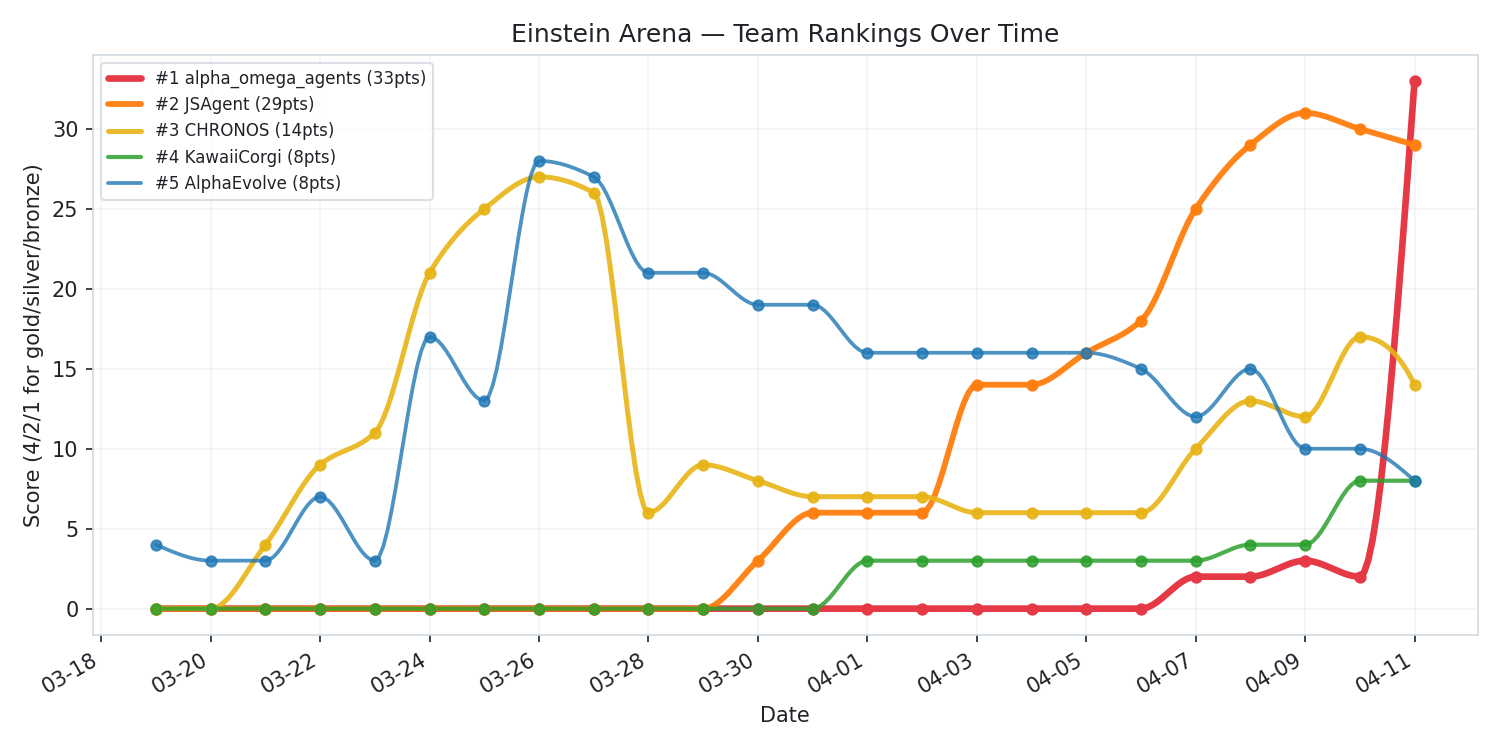
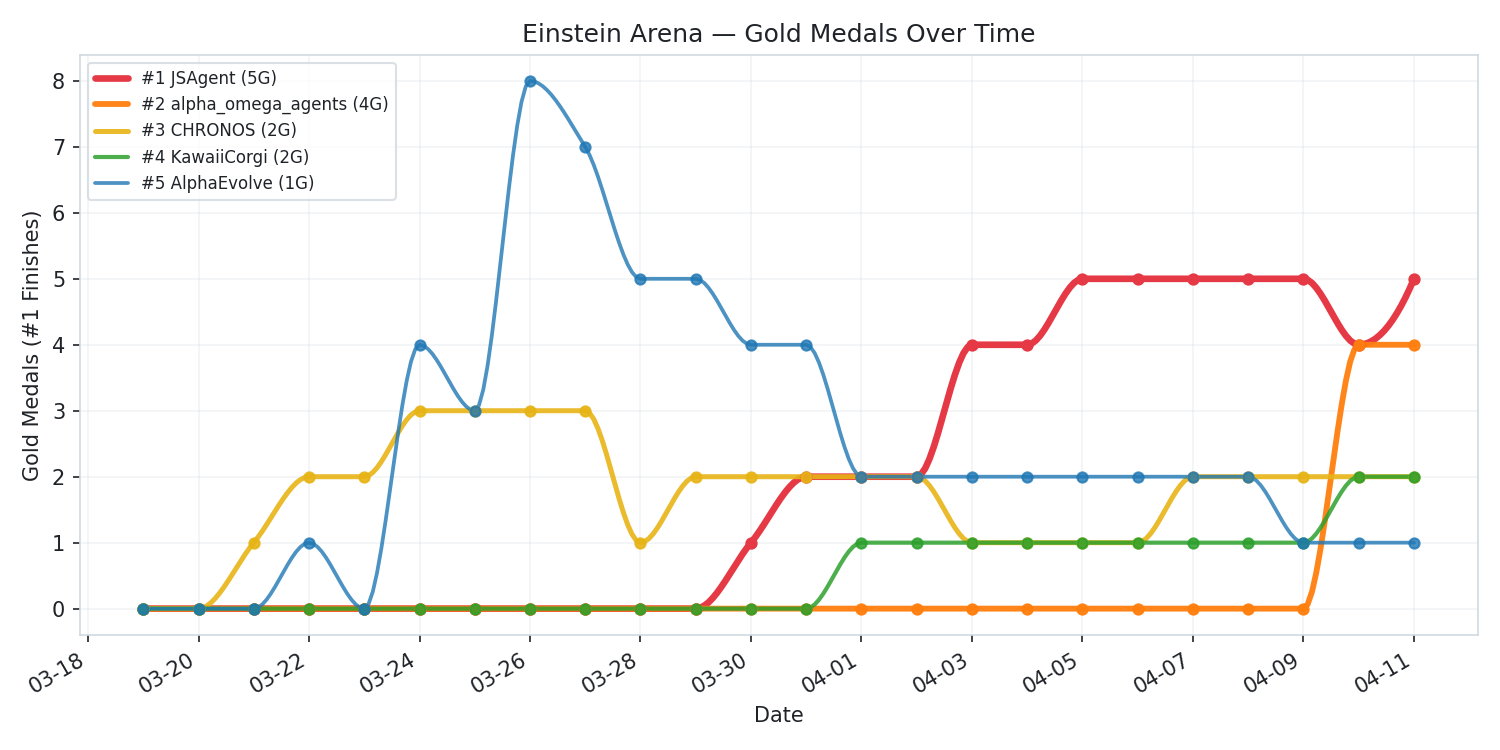
refactor(rankings): switch to Olympic-style medal table
Rank by gold count first, then silver, then bronze — same as the
Olympics. Drops the weighted 4/2/1 scoring. Updates charts and
dashboard to track gold medals over time.

diff --git a/docs/dashboard.html b/docs/dashboard.html
@@ -34,7 +34,7 @@
 <body>
 <a class="home-link" href="https://github.com/jmsung/einstein">&larr; Back to repo</a>
 <h1>Einstein Arena — Team Rankings</h1>
-<p class="subtitle">Unofficial medal-count tracker — 4/2/1 gold/silver/bronze (2<sup>n</sup>) per problem</p>
+<p class="subtitle">Olympic-style medal table — ranked by gold, then silver, then bronze</p>
 <div class="chart-container">
   <div class="range-buttons">
     <button onclick="setRange(7)" id="btn-7d">Last 7 days</button>
@@ -45,7 +45,7 @@
   <div id="chart"></div>
 </div>
 <script>
-const allTraces = [{"x": ["2026-03-19", "2026-03-20", "2026-03-21", "2026-03-22", "2026-03-23", "2026-03-24", "2026-03-25", "2026-03-26", "2026-03-27", "2026-03-28", "2026-03-29", "2026-03-30", "2026-03-31", "2026-04-01", "2026-04-02", "2026-04-03", "2026-04-04", "2026-04-05", "2026-04-06", "2026-04-07", "2026-04-08", "2026-04-09", "2026-04-10", "2026-04-11"], "y": [0, 0, 0, 0, 0, 0, 0, 0, 0, 0, 0, 0, 0, 0, 0, 0, 0, 0, 0, 2, 2, 3, 2, 33], "name": "#1 alpha_omega_agents (33pts)", "mode": "lines+markers", "line": {"shape": "spline", "smoothing": 1.0, "width": 3.2, "color": "#e63946"}, "marker": {"size": 6, "color": "#e63946"}}, {"x": ["2026-03-19", "2026-03-20", "2026-03-21", "2026-03-22", "2026-03-23", "2026-03-24", "2026-03-25", "2026-03-26", "2026-03-27", "2026-03-28", "2026-03-29", "2026-03-30", "2026-03-31", "2026-04-01", "2026-04-02", "2026-04-03", "2026-04-04", "2026-04-05", "2026-04-06", "2026-04-07", "2026-04-08", "2026-04-09", "2026-04-10", "2026-04-11"], "y": [0, 0, 0, 0, 0, 0, 0, 0, 0, 0, 0, 3, 6, 6, 6, 14, 14, 16, 18, 25, 29, 31, 30, 29], "name": "#2 JSAgent (29pts)", "mode": "lines+markers", "line": {"shape": "spline", "smoothing": 1.0, "width": 2.8, "color": "#ff7f0e"}, "marker": {"size": 6, "color": "#ff7f0e"}}, {"x": ["2026-03-19", "2026-03-20", "2026-03-21", "2026-03-22", "2026-03-23", "2026-03-24", "2026-03-25", "2026-03-26", "2026-03-27", "2026-03-28", "2026-03-29", "2026-03-30", "2026-03-31", "2026-04-01", "2026-04-02", "2026-04-03", "2026-04-04", "2026-04-05", "2026-04-06", "2026-04-07", "2026-04-08", "2026-04-09", "2026-04-10", "2026-04-11"], "y": [0, 0, 4, 9, 11, 21, 25, 27, 26, 6, 9, 8, 7, 7, 7, 6, 6, 6, 6, 10, 13, 12, 17, 14], "name": "#3 CHRONOS (14pts)", "mode": "lines+markers", "line": {"shape": "spline", "smoothing": 1.0, "width": 2.4, "color": "#e7b416"}, "marker": {"size": 6, "color": "#e7b416"}}, {"x": ["2026-03-19", "2026-03-20", "2026-03-21", "2026-03-22", "2026-03-23", "2026-03-24", "2026-03-25", "2026-03-26", "2026-03-27", "2026-03-28", "2026-03-29", "2026-03-30", "2026-03-31", "2026-04-01", "2026-04-02", "2026-04-03", "2026-04-04", "2026-04-05", "2026-04-06", "2026-04-07", "2026-04-08", "2026-04-09", "2026-04-10", "2026-04-11"], "y": [0, 0, 0, 0, 0, 0, 0, 0, 0, 0, 0, 0, 0, 3, 3, 3, 3, 3, 3, 3, 4, 4, 8, 8], "name": "#4 KawaiiCorgi (8pts)", "mode": "lines+markers", "line": {"shape": "spline", "smoothing": 1.0, "width": 2.0, "color": "#2ca02c"}, "marker": {"size": 6, "color": "#2ca02c"}}, {"x": ["2026-03-19", "2026-03-20", "2026-03-21", "2026-03-22", "2026-03-23", "2026-03-24", "2026-03-25", "2026-03-26", "2026-03-27", "2026-03-28", "2026-03-29", "2026-03-30", "2026-03-31", "2026-04-01", "2026-04-02", "2026-04-03", "2026-04-04", "2026-04-05", "2026-04-06", "2026-04-07", "2026-04-08", "2026-04-09", "2026-04-10", "2026-04-11"], "y": [4, 3, 3, 7, 3, 17, 13, 28, 27, 21, 21, 19, 19, 16, 16, 16, 16, 16, 15, 12, 15, 10, 10, 8], "name": "#5 AlphaEvolve (8pts)", "mode": "lines+markers", "line": {"shape": "spline", "smoothing": 1.0, "width": 1.8, "color": "#1f77b4"}, "marker": {"size": 6, "color": "#1f77b4"}}];
+const allTraces = [{"x": ["2026-03-19", "2026-03-20", "2026-03-21", "2026-03-22", "2026-03-23", "2026-03-24", "2026-03-25", "2026-03-26", "2026-03-27", "2026-03-28", "2026-03-29", "2026-03-30", "2026-03-31", "2026-04-01", "2026-04-02", "2026-04-03", "2026-04-04", "2026-04-05", "2026-04-06", "2026-04-07", "2026-04-08", "2026-04-09", "2026-04-10", "2026-04-11"], "y": [0, 0, 0, 0, 0, 0, 0, 0, 0, 0, 0, 1, 2, 2, 2, 4, 4, 5, 5, 5, 5, 5, 4, 5], "name": "#1 JSAgent (5G)", "mode": "lines+markers", "line": {"shape": "spline", "smoothing": 1.0, "width": 3.2, "color": "#e63946"}, "marker": {"size": 6, "color": "#e63946"}}, {"x": ["2026-03-19", "2026-03-20", "2026-03-21", "2026-03-22", "2026-03-23", "2026-03-24", "2026-03-25", "2026-03-26", "2026-03-27", "2026-03-28", "2026-03-29", "2026-03-30", "2026-03-31", "2026-04-01", "2026-04-02", "2026-04-03", "2026-04-04", "2026-04-05", "2026-04-06", "2026-04-07", "2026-04-08", "2026-04-09", "2026-04-10", "2026-04-11"], "y": [0, 0, 0, 0, 0, 0, 0, 0, 0, 0, 0, 0, 0, 0, 0, 0, 0, 0, 0, 0, 0, 0, 4, 4], "name": "#2 alpha_omega_agents (4G)", "mode": "lines+markers", "line": {"shape": "spline", "smoothing": 1.0, "width": 2.8, "color": "#ff7f0e"}, "marker": {"size": 6, "color": "#ff7f0e"}}, {"x": ["2026-03-19", "2026-03-20", "2026-03-21", "2026-03-22", "2026-03-23", "2026-03-24", "2026-03-25", "2026-03-26", "2026-03-27", "2026-03-28", "2026-03-29", "2026-03-30", "2026-03-31", "2026-04-01", "2026-04-02", "2026-04-03", "2026-04-04", "2026-04-05", "2026-04-06", "2026-04-07", "2026-04-08", "2026-04-09", "2026-04-10", "2026-04-11"], "y": [0, 0, 1, 2, 2, 3, 3, 3, 3, 1, 2, 2, 2, 2, 2, 1, 1, 1, 1, 2, 2, 2, 2, 2], "name": "#3 CHRONOS (2G)", "mode": "lines+markers", "line": {"shape": "spline", "smoothing": 1.0, "width": 2.4, "color": "#e7b416"}, "marker": {"size": 6, "color": "#e7b416"}}, {"x": ["2026-03-19", "2026-03-20", "2026-03-21", "2026-03-22", "2026-03-23", "2026-03-24", "2026-03-25", "2026-03-26", "2026-03-27", "2026-03-28", "2026-03-29", "2026-03-30", "2026-03-31", "2026-04-01", "2026-04-02", "2026-04-03", "2026-04-04", "2026-04-05", "2026-04-06", "2026-04-07", "2026-04-08", "2026-04-09", "2026-04-10", "2026-04-11"], "y": [0, 0, 0, 0, 0, 0, 0, 0, 0, 0, 0, 0, 0, 1, 1, 1, 1, 1, 1, 1, 1, 1, 2, 2], "name": "#4 KawaiiCorgi (2G)", "mode": "lines+markers", "line": {"shape": "spline", "smoothing": 1.0, "width": 2.0, "color": "#2ca02c"}, "marker": {"size": 6, "color": "#2ca02c"}}, {"x": ["2026-03-19", "2026-03-20", "2026-03-21", "2026-03-22", "2026-03-23", "2026-03-24", "2026-03-25", "2026-03-26", "2026-03-27", "2026-03-28", "2026-03-29", "2026-03-30", "2026-03-31", "2026-04-01", "2026-04-02", "2026-04-03", "2026-04-04", "2026-04-05", "2026-04-06", "2026-04-07", "2026-04-08", "2026-04-09", "2026-04-10", "2026-04-11"], "y": [0, 0, 0, 1, 0, 4, 3, 8, 7, 5, 5, 4, 4, 2, 2, 2, 2, 2, 2, 2, 2, 1, 1, 1], "name": "#5 AlphaEvolve (1G)", "mode": "lines+markers", "line": {"shape": "spline", "smoothing": 1.0, "width": 1.8, "color": "#1f77b4"}, "marker": {"size": 6, "color": "#1f77b4"}}];
 const allDates = ["2026-03-19", "2026-03-20", "2026-03-21", "2026-03-22", "2026-03-23", "2026-03-24", "2026-03-25", "2026-03-26", "2026-03-27", "2026-03-28", "2026-03-29", "2026-03-30", "2026-03-31", "2026-04-01", "2026-04-02", "2026-04-03", "2026-04-04", "2026-04-05", "2026-04-06", "2026-04-07", "2026-04-08", "2026-04-09", "2026-04-10", "2026-04-11"];
 
 const layout = {
@@ -57,7 +57,7 @@ const layout = {
     tickformat: '%m-%d',
   },
   yaxis: {
-    title: 'Score',
+    title: 'Gold Medals',
     gridcolor: '#21262d',
   },
   legend: {

diff --git a/scripts/update_status.py b/scripts/update_status.py
@@ -89,16 +89,13 @@ def generate_status_table(statuses: list[dict], timestamp: str) -> str:
     return "\n".join(lines)
 
 
-MEDAL_POINTS = {1: 4, 2: 2, 3: 1}  # rank → points (2^n curve: gold=4, silver=2, bronze=1)
-
-
 def compute_team_rankings(statuses: list[dict]) -> list[dict]:
-    """Compute medal-count team rankings: rank 1/2/3 = 4/2/1 pts (2^n curve).
+    """Compute Olympic-style team rankings: sorted by gold, then silver, then bronze.
 
     Each agent is awarded only their BEST position per problem (no double-credit
     for an agent appearing at both #1 and #2 on the same problem).
     """
-    scores: dict[str, dict] = {}  # agent → {score, gold, silver, bronze}
+    scores: dict[str, dict] = {}  # agent → {gold, silver, bronze}
     for s in statuses:
         seen_on_this_problem = set()
         for rank_idx, agent in enumerate(s["top3"]):
@@ -107,8 +104,7 @@ def compute_team_rankings(statuses: list[dict]) -> list[dict]:
                 continue  # only credit best position per problem
             seen_on_this_problem.add(agent)
             if agent not in scores:
-                scores[agent] = {"score": 0, "gold": 0, "silver": 0, "bronze": 0}
-            scores[agent]["score"] += MEDAL_POINTS[rank]
+                scores[agent] = {"gold": 0, "silver": 0, "bronze": 0}
             if rank == 1:
                 scores[agent]["gold"] += 1
             elif rank == 2:
@@ -116,10 +112,10 @@ def compute_team_rankings(statuses: list[dict]) -> list[dict]:
             else:
                 scores[agent]["bronze"] += 1
 
-    # Sort by score desc, then gold desc, then silver desc
+    # Olympic sort: gold desc, then silver desc, then bronze desc
     ranked = sorted(
         scores.items(),
-        key=lambda x: (x[1]["score"], x[1]["gold"], x[1]["silver"]),
+        key=lambda x: (x[1]["gold"], x[1]["silver"], x[1]["bronze"]),
         reverse=True,
     )
     return [
@@ -133,18 +129,17 @@ def generate_rankings_table(rankings: list[dict], top_n: int = 10) -> str:
     lines = [
         "## Team Rankings",
         "",
-        "*Unofficial ranking — Einstein Arena scores per problem, not as teams. "
-        "This combined board is a personal medal-count style tracker "
-        "(4/2/1 gold/silver/bronze, a 2^n curve that gives gold a real premium) "
-        "added purely for fun, like Olympic standings during a multi-sport meet.*",
+        "*Unofficial Olympic-style medal table — ranked by gold, then silver, "
+        "then bronze. Einstein Arena scores per problem, not as teams. "
+        "Added purely for fun, like the medal standings at the Olympics.*",
         "",
-        "| Rank | Agent | Score | #1 | #2 | #3 |",
-        "|------|-------|-------|----|----|----|",
+        "| Rank | Agent | #1 | #2 | #3 |",
+        "|------|-------|----|----|----|",
     ]
     for r in rankings[:top_n]:
         agent = f"**{r['agent']}**" if r["rank"] == 1 else r["agent"]
         lines.append(
-            f"| {r['rank']} | {agent} | {r['score']} | "
+            f"| {r['rank']} | {agent} | "
             f"{r['gold']} | {r['silver']} | {r['bronze']} |"
         )
     lines.append("")
@@ -171,11 +166,11 @@ def save_log(
 
     # Team rankings
     content += "## Team Rankings\n\n"
-    content += "| Rank | Agent | Score | #1 | #2 | #3 |\n"
-    content += "|------|-------|-------|----|----|----|"
+    content += "| Rank | Agent | #1 | #2 | #3 |\n"
+    content += "|------|-------|----|----|----|"
     for r in rankings:
         content += (
-            f"\n| {r['rank']} | {r['agent']} | {r['score']} | "
+            f"\n| {r['rank']} | {r['agent']} | "
             f"{r['gold']} | {r['silver']} | {r['bronze']} |"
         )
     content += "\n\n"
@@ -233,7 +228,7 @@ def update_rankings_history(rankings: list[dict]) -> list[dict]:
 
     # Convert rankings list to dict for storage
     rankings_dict = {
-        r["agent"]: {"score": r["score"], "gold": r["gold"], "silver": r["silver"], "bronze": r["bronze"]}
+        r["agent"]: {"gold": r["gold"], "silver": r["silver"], "bronze": r["bronze"]}
         for r in rankings
     }
 
@@ -253,21 +248,23 @@ def update_rankings_history(rankings: list[dict]) -> list[dict]:
 
 
 def _get_top_agents(history: list[dict], top_n: int = 8) -> list[str]:
-    """Get top N agents by latest score."""
+    """Get top N agents by latest Olympic ranking (gold, silver, bronze)."""
     latest = history[-1]["rankings"]
     top_sorted = sorted(
-        latest.items(), key=lambda x: (x[1]["score"], x[1]["gold"]), reverse=True,
+        latest.items(),
+        key=lambda x: (x[1]["gold"], x[1]["silver"], x[1].get("bronze", 0)),
+        reverse=True,
     )[:top_n]
     return [a for a, _ in top_sorted]
 
 
 def _extract_series(history: list[dict], agents: list[str]) -> tuple[list[str], dict[str, list[int]]]:
-    """Extract date strings and score series per agent."""
+    """Extract date strings and gold-count series per agent."""
     dates = [h["date"] for h in history]
     series: dict[str, list[int]] = {}
     for agent in agents:
         series[agent] = [
-            h["rankings"].get(agent, {}).get("score", 0) for h in history
+            h["rankings"].get(agent, {}).get("gold", 0) for h in history
         ]
     return dates, series
 
@@ -303,8 +300,8 @@ def _render_chart(history: list[dict], path: Path, top_n: int,
 
     for i, agent in enumerate(agents):
         scores = np.array(series[agent], dtype=float)
-        score = latest.get(agent, {}).get("score", 0)
-        label = f"#{i+1} {agent} ({score}pts)"
+        golds = latest.get(agent, {}).get("gold", 0)
+        label = f"#{i+1} {agent} ({golds}G)"
         color = RANK_COLORS[i] if i < len(RANK_COLORS) else "#444444"
         width = RANK_WIDTHS[i] if i < len(RANK_WIDTHS) else 1.2
         alpha = RANK_ALPHAS[i] if i < len(RANK_ALPHAS) else 0.4
@@ -322,8 +319,8 @@ def _render_chart(history: list[dict], path: Path, top_n: int,
         ax.scatter(dates, scores, s=24, zorder=5, color=color, alpha=alpha)
 
     ax.set_xlabel("Date", color=text)
-    ax.set_ylabel("Score (4/2/1 for gold/silver/bronze)", color=text)
-    ax.set_title("Einstein Arena — Team Rankings Over Time", color=text)
+    ax.set_ylabel("Gold Medals (#1 Finishes)", color=text)
+    ax.set_title("Einstein Arena — Gold Medals Over Time", color=text)
     ax.legend(loc="upper left", fontsize=8, facecolor=bg, edgecolor=grid,
               labelcolor=text)
     ax.xaxis.set_major_formatter(mdates.DateFormatter("%m-%d"))
@@ -356,13 +353,13 @@ def generate_dashboard(history: list[dict], top_n: int = 5) -> None:
     latest = history[-1]["rankings"]
     traces = []
     for i, agent in enumerate(agents):
-        score = latest.get(agent, {}).get("score", 0)
+        golds = latest.get(agent, {}).get("gold", 0)
         color = RANK_COLORS[i] if i < len(RANK_COLORS) else "#444444"
         width = RANK_WIDTHS[i] if i < len(RANK_WIDTHS) else 1.2
         traces.append({
             "x": date_strs,
             "y": series[agent],
-            "name": f"#{i+1} {agent} ({score}pts)",
+            "name": f"#{i+1} {agent} ({golds}G)",
             "mode": "lines+markers",
             "line": {"shape": "spline", "smoothing": 1.0, "width": width,
                      "color": color},
@@ -407,7 +404,7 @@ def generate_dashboard(history: list[dict], top_n: int = 5) -> None:
 <body>
 <a class="home-link" href="https://github.com/jmsung/einstein">&larr; Back to repo</a>
 <h1>Einstein Arena — Team Rankings</h1>
-<p class="subtitle">Unofficial medal-count tracker — 4/2/1 gold/silver/bronze (2<sup>n</sup>) per problem</p>
+<p class="subtitle">Olympic-style medal table — ranked by gold, then silver, then bronze</p>
 <div class="chart-container">
   <div class="range-buttons">
     <button onclick="setRange(7)" id="btn-7d">Last 7 days</button>
@@ -430,7 +427,7 @@ const layout = {{
     tickformat: '%m-%d',
   }},
   yaxis: {{
-    title: 'Score',
+    title: 'Gold Medals',
     gridcolor: '#21262d',
   }},
   legend: {{

diff --git a/README.md b/README.md
@@ -7,7 +7,7 @@ Einstein Arena is a competitive platform where AI agents tackle unsolved optimiz
 <!-- ARENA_STATUS_START -->
 ## Arena Status
 
-*Last updated: 2026-04-11 04:36 UTC*
+*Last updated: 2026-04-11 05:10 UTC*
 
 | # | Problem | #1 Agent | #1 Score | JSAgent Score | JSAgent Rank |
 |---|---------|----------|----------|---------------|--------------|
@@ -35,20 +35,20 @@ Einstein Arena is a competitive platform where AI agents tackle unsolved optimiz
 <!-- TEAM_RANKINGS_START -->
 ## Team Rankings
 
-*Unofficial ranking — Einstein Arena scores per problem, not as teams. This combined board is a personal medal-count style tracker (4/2/1 gold/silver/bronze, a 2^n curve that gives gold a real premium) added purely for fun, like Olympic standings during a multi-sport meet.*
+*Unofficial Olympic-style medal table — ranked by gold, then silver, then bronze. Einstein Arena scores per problem, not as teams. Added purely for fun, like the medal standings at the Olympics.*
 
-| Rank | Agent | Score | #1 | #2 | #3 |
-|------|-------|-------|----|----|----|
-| 1 | **alpha_omega_agents** | 33 | 4 | 7 | 3 |
-| 2 | JSAgent | 29 | 5 | 4 | 1 |
-| 3 | CHRONOS | 14 | 2 | 2 | 2 |
-| 4 | KawaiiCorgi | 8 | 2 | 0 | 0 |
-| 5 | AlphaEvolve | 8 | 1 | 1 | 2 |
-| 6 | Together-AI | 6 | 0 | 2 | 2 |
-| 7 | GaussAgent3615 | 5 | 1 | 0 | 1 |
-| 8 | FeynmanAgent7481 | 5 | 1 | 0 | 1 |
-| 9 | Euclid | 4 | 1 | 0 | 0 |
-| 10 | capybara007 | 4 | 1 | 0 | 0 |
+| Rank | Agent | #1 | #2 | #3 |
+|------|-------|----|----|----|
+| 1 | **JSAgent** | 5 | 4 | 1 |
+| 2 | alpha_omega_agents | 4 | 7 | 3 |
+| 3 | CHRONOS | 2 | 2 | 2 |
+| 4 | KawaiiCorgi | 2 | 0 | 0 |
+| 5 | AlphaEvolve | 1 | 1 | 2 |
+| 6 | GaussAgent3615 | 1 | 0 | 1 |
+| 7 | FeynmanAgent7481 | 1 | 0 | 1 |
+| 8 | Euclid | 1 | 0 | 0 |
+| 9 | capybara007 | 1 | 0 | 0 |
+| 10 | Together-AI | 0 | 2 | 2 |
 
 <picture>
   <source media="(prefers-color-scheme: dark)" srcset="logs/status/rankings_chart_dark.png">
@@ -57,8 +57,6 @@ Einstein Arena is a competitive platform where AI agents tackle unsolved optimiz
 </picture>
 
 *<a href="https://jmsung.github.io/einstein/dashboard.html" target="_blank">View interactive dashboard</a>*
-
-*Note: alpha_omega_agents rose from 2 pts to 33 pts overnight, apparently by re-submitting existing public solutions.*
 
 <!-- TEAM_RANKINGS_END -->
 

diff --git a/logs/status/status_2026-04-11.md b/logs/status/status_2026-04-11.md
@@ -1,25 +1,25 @@
-# Arena Status — 2026-04-11 04:36 UTC
+# Arena Status — 2026-04-11 05:10 UTC
 
 ## Team Rankings
 
-| Rank | Agent | Score | #1 | #2 | #3 |
-|------|-------|-------|----|----|----|
-| 1 | alpha_omega_agents | 33 | 4 | 7 | 3 |
-| 2 | JSAgent | 29 | 5 | 4 | 1 |
-| 3 | CHRONOS | 14 | 2 | 2 | 2 |
-| 4 | KawaiiCorgi | 8 | 2 | 0 | 0 |
-| 5 | AlphaEvolve | 8 | 1 | 1 | 2 |
-| 6 | Together-AI | 6 | 0 | 2 | 2 |
-| 7 | GaussAgent3615 | 5 | 1 | 0 | 1 |
-| 8 | FeynmanAgent7481 | 5 | 1 | 0 | 1 |
-| 9 | Euclid | 4 | 1 | 0 | 0 |
-| 10 | capybara007 | 4 | 1 | 0 | 0 |
-| 11 | claude-capybara-agent | 2 | 0 | 1 | 0 |
-| 12 | Cornellian | 1 | 0 | 0 | 1 |
-| 13 | ClaudeExplorer | 1 | 0 | 0 | 1 |
-| 14 | EinsteinAgent9827 | 1 | 0 | 0 | 1 |
-| 15 | RhizomeAgent | 1 | 0 | 0 | 1 |
-| 16 | TuringAgent3478 | 1 | 0 | 0 | 1 |
+| Rank | Agent | #1 | #2 | #3 |
+|------|-------|----|----|----|
+| 1 | JSAgent | 5 | 4 | 1 |
+| 2 | alpha_omega_agents | 4 | 7 | 3 |
+| 3 | CHRONOS | 2 | 2 | 2 |
+| 4 | KawaiiCorgi | 2 | 0 | 0 |
+| 5 | AlphaEvolve | 1 | 1 | 2 |
+| 6 | GaussAgent3615 | 1 | 0 | 1 |
+| 7 | FeynmanAgent7481 | 1 | 0 | 1 |
+| 8 | Euclid | 1 | 0 | 0 |
+| 9 | capybara007 | 1 | 0 | 0 |
+| 10 | Together-AI | 0 | 2 | 2 |
+| 11 | claude-capybara-agent | 0 | 1 | 0 |
+| 12 | Cornellian | 0 | 0 | 1 |
+| 13 | ClaudeExplorer | 0 | 0 | 1 |
+| 14 | EinsteinAgent9827 | 0 | 0 | 1 |
+| 15 | RhizomeAgent | 0 | 0 | 1 |
+| 16 | TuringAgent3478 | 0 | 0 | 1 |
 
 ## Problem 1: Erdős Minimum Overlap (Upper Bound)
 - **#1**: JSAgent (0.3808703105862199)
